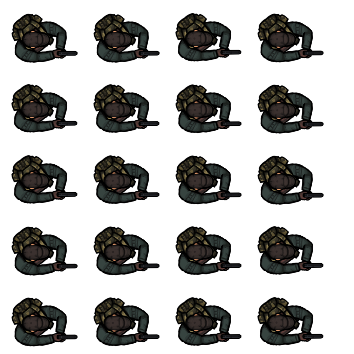
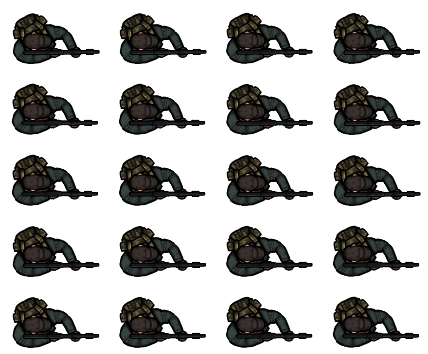
test

diff --git a/js/tanks.js b/js/tanks.js
@@ -1,12 +1,11 @@
 var myId=0;
-
 var land;
 var shadow;
 var tank;
 var turret;
 var breath;
 var player;
-var tanksList;
+var playersList;
 var enemyBullets;
 var enemiesTotal = 0;
 var enemiesAlive = 0;
@@ -18,7 +17,8 @@ var fireRate = 100;
 var nextFire = 0;
 var ready = false;
 var eurecaServer;
-
+var zombieList;
+var zombieID = 0;
 
 var eurecaClientSetup = function() {
 	var eurecaClient = new Eureca.Client();
@@ -40,34 +40,132 @@ var eurecaClientSetup = function() {
 	
 	eurecaClient.exports.kill = function(id)
 	{	
-		if (tanksList[id]) {
-			tanksList[id].kill();
-			console.log('killing ', id, tanksList[id]);
+		if (playersList[id]) {
+			playersList[id].kill();
+			console.log('killing ', id, playersList[id]);
 		}
 	}	
 	
-	eurecaClient.exports.spawnEnemy = function(i, x, y)
+	eurecaClient.exports.spawnPlayer = function(i, x, y)
 	{
 		
 		if (i == myId) return; //this is me
 		
 		console.log('SPAWN');
 		var tnk = new Survive(i, game, tank);
-		tanksList[i] = tnk;
+		playersList[i] = tnk;
+
+	}
+  
+  eurecaClient.exports.spawnZombie = function(zombieID, x, y)
+	{
+    if (zombieID == 1 || zombieID == 2){
+		console.log('SPAWN');
+    var tnk1 = new EnemyTank(zombieID, game, tank);
+    playersList[zombieID] = tnk1;
+    }
+    else{
+      return;
+    }
 	}
 	
   	eurecaClient.exports.updateState = function(id, state)
 	{
-		if (tanksList[id])  {
-			tanksList[id].cursor = state;
-			tanksList[id].tank.x = state.x;
-			tanksList[id].tank.y = state.y;
-			tanksList[id].tank.angle = state.angle;
-			tanksList[id].turret.rotation = state.rot;
-			tanksList[id].update();
+		if (playersList[id])  {
+			playersList[id].cursor = state;
+			playersList[id].tank.x = state.x;
+			playersList[id].tank.y = state.y;
+			playersList[id].tank.angle = state.angle;
+			playersList[id].turret.rotation = state.rot;
+			playersList[id].update();
 		}
 	}
 }
+
+EnemyTank = function (index, game, player) {
+
+    var x = 0;
+    var y = 0;
+
+    this.game = game;
+    this.health = 3;
+    this.player = player;
+    this.bullets = game.add.group();
+    this.bullets.enableBody = true;
+    this.bullets.physicsBodyType = Phaser.Physics.ARCADE;
+    this.bullets.createMultiple(20, 'bullet', 0, false);
+    this.bullets.setAll('anchor.x', -1);
+    this.bullets.setAll('anchor.y', -0.5);
+    this.bullets.setAll('outOfBoundsKill', true);
+    this.bullets.setAll('checkWorldBounds', true);	
+    this.fireRate = 1000;
+    this.nextFire = 0;
+    this.alive = true;
+
+    this.shadow = game.add.sprite(x, y, 'enemy', 'shadow');
+    this.tank = game.add.sprite(x, y, 'enemy', 'tank1');
+    this.turret = game.add.sprite(x, y, 'enemy', 'turret');
+
+    this.shadow.anchor.set(0.5);
+    this.tank.anchor.set(0.5);
+    this.turret.anchor.set(0.3, 0.5);
+
+    this.tank.name = index.toString();
+    game.physics.enable(this.tank, Phaser.Physics.ARCADE);
+    this.tank.body.immovable = false;
+    this.tank.body.collideWorldBounds = true;
+    this.tank.body.bounce.setTo(1, 1);
+
+    this.tank.angle = game.rnd.angle();
+
+    game.physics.arcade.velocityFromRotation(this.tank.rotation, 50, this.tank.body.velocity);
+
+};
+
+EnemyTank.prototype.damage = function() {
+
+    this.health -= 1;
+
+    if (this.health <= 0)
+    {
+        this.alive = false;
+
+        this.shadow.kill();
+        this.tank.kill();
+        this.turret.kill();
+
+        return true;
+    }
+
+    return false;
+
+}
+
+EnemyTank.prototype.update = function() {
+
+    this.shadow.x = this.tank.x;
+    this.shadow.y = this.tank.y;
+    this.shadow.rotation = this.tank.rotation;
+
+    this.turret.x = this.tank.x;
+    this.turret.y = this.tank.y;
+    this.turret.rotation = this.game.physics.arcade.angleBetween(this.tank, this.player);
+
+    // if (this.game.physics.arcade.distanceBetween(this.tank, this.player) < 300)
+    // {
+        // if (this.game.time.now > this.nextFire && this.bullets.countDead() > 0)
+        // {
+            // this.nextFire = this.game.time.now + this.fireRate;
+
+            // var bullet = this.bullets.getFirstDead();
+
+            // bullet.reset(this.turret.x, this.turret.y);
+
+            // bullet.rotation = this.game.physics.arcade.moveToObject(bullet, this.player, 500);
+        // }
+    // }
+
+};
 
 Survive = function (index, game, player) {
 	this.cursor = {
@@ -195,7 +293,7 @@ Survive.prototype.update = function() {
     {
         if (this.currentSpeed > 0)
         {
-            this.currentSpeed -= 4;
+            this.currentSpeed -= 20;
         }
     }
     if (this.cursor.fire)
@@ -224,7 +322,6 @@ Survive.prototype.update = function() {
     this.turret.y = this.tank.y;
 };
 
-
 Survive.prototype.fire = function(target) {
 		if (!this.alive) return;
         if (this.game.time.now > this.nextFire && this.bullets.countDead() > 0)
@@ -235,6 +332,7 @@ Survive.prototype.fire = function(target) {
 
 			bullet.rotation = this.game.physics.arcade.moveToObject(bullet, target, 500);
         }
+    console.log(playersList);  
 }
 
 
@@ -253,7 +351,7 @@ function preload () {
     game.load.atlas('tank', 'assets/tanks.png', 'assets/tanks.json');
     game.load.atlas('enemy', 'assets/enemy-tanks.png', 'assets/tanks.json');
     game.load.image('logo', 'assets/logo.png');
-    game.load.spritesheet('test', 'assets/player.png',81,70,19);
+    game.load.spritesheet('test', 'assets/player.png',107,70,19);
     // game.load.image('test', 'assets/player/survivor-idle_shotgun_1.png');
     game.load.image('bullet', 'assets/bullet.png');
     game.load.image('earth', 'assets/scorched_earth.png');
@@ -266,17 +364,17 @@ function preload () {
 function create () {
 
     //  Resize our game world to be a 2000 x 2000 square
-    game.world.setBounds(-1000, -1000, 2000, 2000);
+    game.world.setBounds(-100, -100, 200, 200);
 	game.stage.disableVisibilityChange  = true;
 	
     //  Our tiled scrolling background
     land = game.add.tileSprite(0, 0, 800, 600, 'earth');
     land.fixedToCamera = true;
     
-    tanksList = {};
+    playersList = {};
 	
 	player = new Survive(myId, game, tank);
-	tanksList[myId] = player;
+	playersList[myId] = player;
 	tank = player.tank;
 	turret = player.turret;
 	tank.x=0;
@@ -333,25 +431,25 @@ function update () {
     land.tilePosition.x = -game.camera.x;
     land.tilePosition.y = -game.camera.y;
 
-    for (var i in tanksList)
+    for (var i in playersList)
     {
-		if (!tanksList[i]) continue;
-		var curBullets = tanksList[i].bullets;
-		var curSurvive = tanksList[i].tank;
-		for (var j in tanksList)
+		if (!playersList[i]) continue;
+		var curBullets = playersList[i].bullets;
+		var curSurvive = playersList[i].tank;
+		for (var j in playersList)
 		{
-			if (!tanksList[j]) continue;
+			if (!playersList[j]) continue;
 			if (j!=i) 
 			{
 			
-				var targetSurvive = tanksList[j].tank;
+				var targetSurvive = playersList[j].tank - 0.1;
 				
 				game.physics.arcade.overlap(curBullets, targetSurvive, bulletHitPlayer, null, this);
 			
 			}
-			if (tanksList[j].alive)
+			if (playersList[j].alive)
 			{
-				tanksList[j].update();
+				playersList[j].update();
 			}			
 		}
     }

diff --git a/server.js b/server.js
@@ -1,13 +1,16 @@
 var express = require('express')
   , app = express(app)
   , server = require('http').createServer(app);
+  
+var zombieList;
+var zombieID = 0;
 
 app.use(express.static(__dirname));
 
 var EurecaServer = require('eureca.io').EurecaServer;
 //var eurecaServer = new EurecaServer();
-// var eurecaServer = new EurecaServer({allow:['setId', 'spawnEnemy', 'kill']});
-var eurecaServer = new EurecaServer({allow:['setId', 'spawnEnemy', 'kill', 'updateState']});
+// var eurecaServer = new EurecaServer({allow:['setId', 'spawnPlayer', 'kill']});
+var eurecaServer = new EurecaServer({allow:['setId', 'spawnPlayer','spawnZombie', 'kill', 'updateState']});
 var clients = {};
 eurecaServer.attach(server);
 
@@ -16,6 +19,7 @@ eurecaServer.onConnect(function (conn){
       var remote = eurecaServer.getClient(conn.id);    
       clients[conn.id] = {id:conn.id, remote:remote}
       remote.setId(conn.id);	
+  console.log(clients);    
 });
 
 eurecaServer.onDisconnect(function (conn){
@@ -41,7 +45,10 @@ eurecaServer.exports.handshake = function()
 		{		
       var x = clients[cc].laststate ? clients[cc].laststate.x:  0;
 			var y = clients[cc].laststate ? clients[cc].laststate.y:  0;
-			remote.spawnEnemy(clients[cc].id, x, y);		
+      remote.spawnPlayer(clients[cc].id, x, y);		
+      //remote.spawnZombie(1, 11, 11);		
+      //remote.spawnZombie(2, x, y);		
+
 		}
 	}
 }
